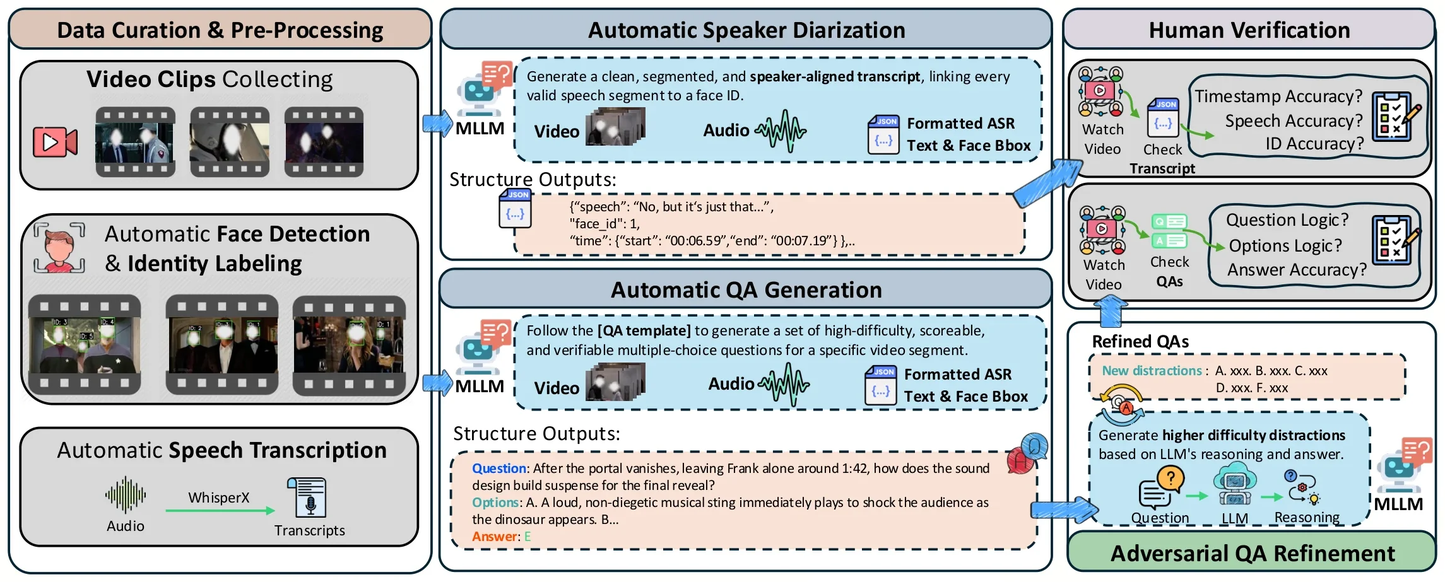
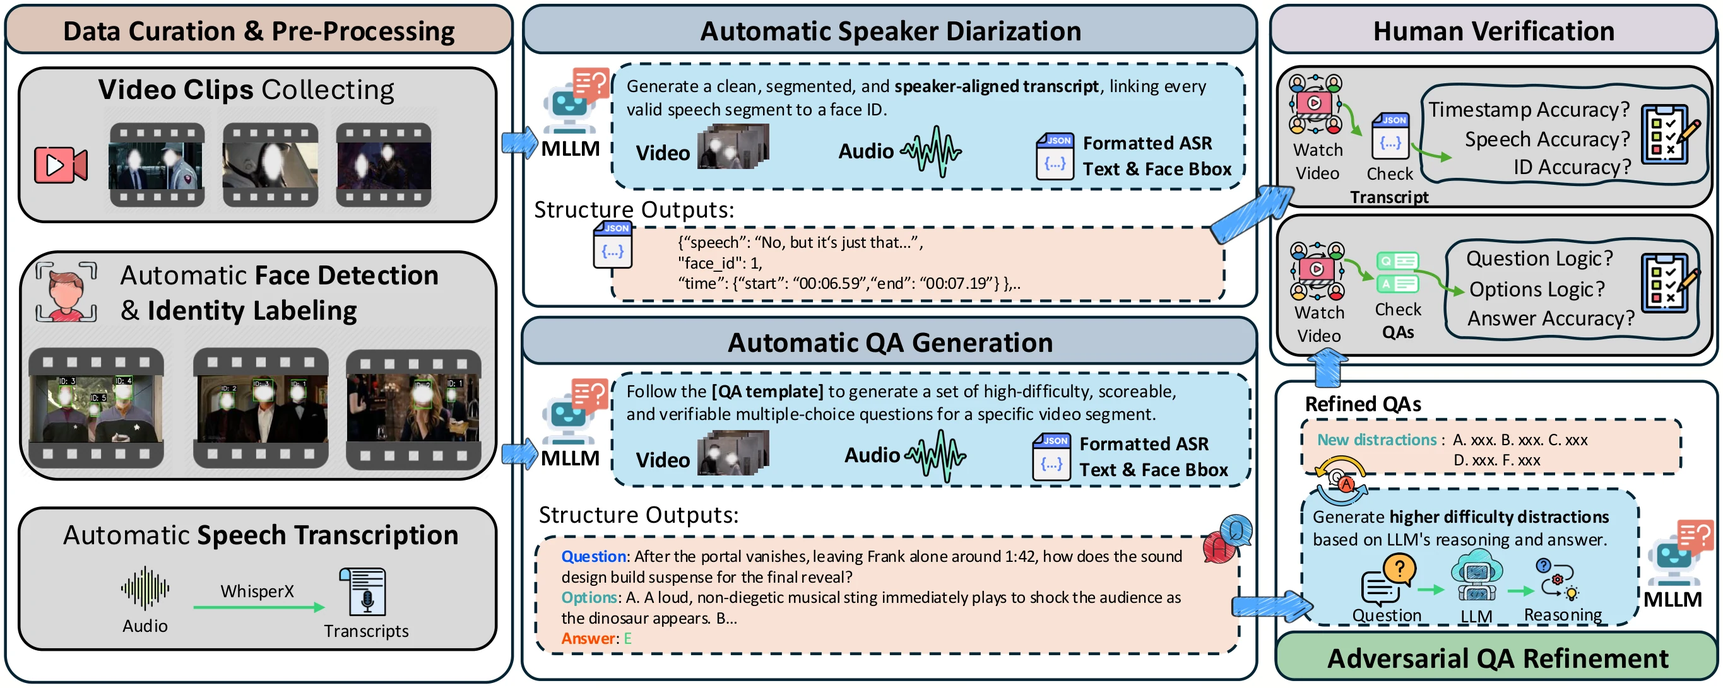
Link the arXiv paper and rework layout and figures
- Paper and PDF buttons point to arXiv:2611.15161; abstract follows the
  arXiv wording; BibTeX carries the arXiv id.
- Hero is centred, with the when/what/who/why chain as a four-cell band.
- Teaser and pipeline re-rendered at 3x; on phones they pan sideways
  instead of shrinking.
- Dataset statistics are HTML bars instead of four pie images.
- Sections are now leaderboard, findings, benchmark and citation.
- tools/render_figures.py regenerates the images from the paper PDFs.

Changed region(s): [[0.0, 0.0, 1.0, 1.0]]

diff --git a/index.html b/index.html
@@ -33,7 +33,6 @@
   --strip: #141C26;
   --hole: #FAFAFB;
   --figure: #FFFFFF;
-  --fig-ink: #3A4552; /* text on figure cards, which stay light in both themes */
   --f-display: "Big Shoulders Display", "Arial Narrow", "Helvetica Neue", sans-serif;
   --f-body: "IBM Plex Sans", system-ui, -apple-system, "Segoe UI", Roboto, sans-serif;
   --f-mono: "IBM Plex Mono", ui-monospace, SFMono-Regular, Menlo, Consolas, monospace;
@@ -91,27 +90,27 @@ p { margin: 0; }
 .nav-gh:hover { background: var(--surface); }
 
 /* hero */
-.hero { padding-block: 56px 40px; }
-.hero-grid { display: grid; gap: 36px; grid-template-columns: minmax(0, 1fr); align-items: end; }
-@media (min-width: 1040px) { .hero-grid { grid-template-columns: minmax(0, 1fr) 360px; gap: 48px; align-items: center; } }
-.chain { border: 1px solid var(--line); border-radius: 12px; background: var(--card); padding: 18px 20px; display: grid; gap: 2px; }
-.chain-title { font: 500 12px/1.4 var(--f-mono); letter-spacing: .08em; text-transform: uppercase; color: var(--muted); margin-bottom: 8px; }
-.chain-row { display: grid; grid-template-columns: 58px minmax(0, 1fr) auto; gap: 10px; align-items: baseline; padding: 7px 0; border-top: 1px dashed var(--line); font-size: 14.5px; }
-.chain-row .q { font: 800 22px/1 var(--f-display); color: var(--ground); }
-.chain-row.r .q { color: var(--reason); }
-.chain-row .m { font: 500 12px var(--f-mono); color: var(--muted); }
-.chain-track { font: 500 11px var(--f-mono); letter-spacing: .07em; text-transform: uppercase; padding-top: 10px; color: var(--ground); }
-.chain-track.r { color: var(--reason); }
-.venue { font: 500 13px/1.4 var(--f-mono); letter-spacing: .08em; text-transform: uppercase; color: var(--muted); display: flex; flex-wrap: wrap; gap: 6px 14px; }
+.hero { padding-block: 48px 40px; text-align: center; }
+.venue { font: 500 13px/1.4 var(--f-mono); letter-spacing: .08em; text-transform: uppercase; color: var(--muted); display: flex; flex-wrap: wrap; justify-content: center; gap: 6px 14px; }
 .venue b { color: var(--ink); font-weight: 500; }
-.wordmark { font: 800 clamp(72px, 13vw, 148px)/.86 var(--f-display); letter-spacing: -.005em; margin-top: 18px; }
+.wordmark { font: 800 clamp(64px, 11vw, 116px)/.88 var(--f-display); letter-spacing: -.005em; margin-top: 16px; }
 .wordmark span { color: var(--reason); }
-.subtitle { font: 500 clamp(20px, 2.6vw, 28px)/1.3 var(--f-body); margin-top: 18px; max-width: 30ch; letter-spacing: -.01em; }
-.authors { margin-top: 28px; display: flex; flex-wrap: wrap; gap: 4px 18px; font-size: 16px; font-weight: 500; }
+.subtitle { font: 500 clamp(20px, 2.5vw, 30px)/1.25 var(--f-body); margin: 18px auto 0; max-width: 42ch; letter-spacing: -.01em; }
+@media (min-width: 720px) { .subtitle span { display: inline-block; } }  /* break between the two halves of the title */
+.authors { margin: 28px auto 0; max-width: 900px; font-size: 16px; font-weight: 500; line-height: 1.9; text-wrap: balance; }
+.authors span, .affils span { display: inline-block; margin-inline: 9px; }
 .authors sup { font: 500 11px var(--f-mono); color: var(--muted); margin-left: 1px; }
-.affils { margin-top: 10px; display: flex; flex-wrap: wrap; gap: 2px 20px; font-size: 13.5px; color: var(--muted); }
+.affils { margin: 8px auto 0; max-width: 900px; font-size: 13.5px; color: var(--muted); text-wrap: balance; }
 .affils sup { font-family: var(--f-mono); margin-right: 3px; }
-.btns { margin-top: 28px; display: flex; flex-wrap: wrap; gap: 10px; }
+.btns { margin-top: 28px; display: flex; flex-wrap: wrap; justify-content: center; gap: 10px; }
+/* the evidence chain: three grounding questions feed one reasoning question */
+.chain { margin-top: 40px; display: grid; grid-template-columns: repeat(2, minmax(0, 1fr)); gap: 1px; background: var(--line); border: 1px solid var(--line); border-radius: 12px; overflow: hidden; text-align: left; }
+@media (min-width: 860px) { .chain { grid-template-columns: repeat(4, minmax(0, 1fr)); } }
+.chain-cell { background: var(--ground-soft); color: var(--ground); padding: 16px 18px; display: grid; gap: 4px; align-content: start; }
+.chain-cell.r { background: var(--reason-soft); color: var(--reason); }
+.chain-cell .t { font: 500 11.5px/1.4 var(--f-mono); letter-spacing: .07em; text-transform: uppercase; }
+.chain-cell .q { font: 800 36px/1 var(--f-display); }
+.chain-cell .d { font-size: 14.5px; line-height: 1.4; color: var(--ink); }
 .btn {
   display: inline-flex; align-items: center; gap: 8px; height: 40px; padding: 0 16px; border-radius: 8px;
   font: 500 15px/1 var(--f-body); text-decoration: none; color: var(--ink); background: var(--card);
@@ -120,8 +119,6 @@ p { margin: 0; }
 .btn:hover { border-color: var(--ink); }
 .btn--primary { background: var(--ink); color: var(--bg); border-color: var(--ink); }
 .btn--primary:hover { opacity: .9; }
-.btn--off { color: var(--muted); border-style: dashed; cursor: default; }
-.btn--off:hover { border-color: var(--line); }
 .btn svg { width: 17px; height: 17px; flex: none; }
 
 /* film strip band */
@@ -144,6 +141,9 @@ section + section { border-top: 1px solid var(--line); }
 
 figure { margin: 0; }
 .fig { background: var(--figure); border: 1px solid var(--line); border-radius: 10px; padding: clamp(8px, 1.6vw, 18px); }
+/* wide figures keep a readable size on phones and pan sideways instead of shrinking */
+.scroll-x { overflow-x: auto; }
+.scroll-x img { min-width: 700px; }
 figcaption { margin-top: 12px; font-size: 14px; color: var(--muted); max-width: 90ch; }
 figcaption b { color: var(--ink); font-weight: 600; }
 
@@ -221,12 +221,12 @@ th[aria-sort] .sort { color: var(--ground); }
 .tag--AV { background: var(--ground-soft); color: var(--ground); }
 .muted { color: var(--muted); }
 .lb-notes { margin-top: 14px; font-size: 13.5px; color: var(--muted); display: grid; gap: 4px; max-width: 110ch; }
-.lb-notes .cov { vertical-align: baseline; font-size: 13px; }
+.lb-notes .cov { vertical-align: baseline; font-size: 13px; width: auto; }
 .submit { margin-top: 18px; font-size: 14.5px; padding: 12px 16px; border-radius: 8px; background: var(--surface); max-width: 110ch; }
 
 /* findings */
 .findings { display: grid; gap: 18px; grid-template-columns: 1fr; margin-top: 32px; }
-@media (min-width: 900px) { .findings { grid-template-columns: 1fr 1fr; align-items: start; } }
+@media (min-width: 900px) { .findings { grid-template-columns: 1fr 1fr; } }
 .finding { background: var(--card); border: 1px solid var(--line); border-radius: 12px; padding: 22px; display: flex; flex-direction: column; gap: 14px; min-width: 0; }
 .finding p { color: var(--muted); font-size: 15px; }
 .finding p strong { color: var(--ink); font-weight: 600; }
@@ -265,10 +265,13 @@ th[aria-sort] .sort { color: var(--ground); }
 
 /* benchmark */
 .build { display: grid; gap: 24px; margin-top: 32px; grid-template-columns: minmax(0, 1fr); }
-.stats4 { display: grid; gap: 14px; grid-template-columns: repeat(2, minmax(0, 1fr)); margin-top: 16px; }
-@media (min-width: 900px) { .stats4 { grid-template-columns: repeat(4, minmax(0, 1fr)); } }
-.stats4 figure { background: var(--figure); border: 1px solid var(--line); border-radius: 10px; padding: 14px 14px 10px; }
-.stats4 figcaption { margin-top: 8px; text-align: center; color: var(--fig-ink); font-size: 13px; }
+.stats4 { display: grid; gap: 14px; grid-template-columns: minmax(0, 1fr); margin-top: 16px; }
+@media (min-width: 600px) { .stats4 { grid-template-columns: repeat(2, minmax(0, 1fr)); } }
+@media (min-width: 1040px) { .stats4 { grid-template-columns: repeat(4, minmax(0, 1fr)); } }
+.stat { background: var(--card); border: 1px solid var(--line); border-radius: 10px; padding: 16px 18px; display: grid; gap: 9px; align-content: start; }
+.stat h4 { margin: 0 0 4px; font: 600 15px/1.3 var(--f-body); }
+.stat h4 span { display: block; font-weight: 400; font-size: 12.5px; color: var(--muted); }
+.stat .meter { grid-template-columns: 74px minmax(0, 1fr) 46px; gap: 10px; font-size: 13px; }
 .cmp th, .cmp td { padding: 8px 10px; text-align: center; border-bottom: 1px solid var(--line); white-space: nowrap; }
 .cmp th { font-size: 12.5px; font-weight: 600; vertical-align: bottom; }
 .cmp .l { text-align: left; }
@@ -278,9 +281,6 @@ th[aria-sort] .sort { color: var(--ground); }
 .y { color: var(--up); font-weight: 600; }
 .x { color: var(--muted); }
 
-/* examples */
-.ex-panel { margin-top: 18px; }
-.ex-panel .fig { display: block; max-width: 860px; }
 .skip { position: absolute; left: 12px; top: -48px; z-index: 30; background: var(--ink); color: var(--bg); padding: 8px 12px; border-radius: 6px; }
 .skip:focus { top: 12px; }
 
@@ -305,7 +305,6 @@ footer p { max-width: 100ch; }
       <a href="#leaderboard">Leaderboard</a>
       <a href="#findings">Findings</a>
       <a href="#benchmark">Benchmark</a>
-      <a href="#examples">Examples</a>
       <a href="#citation">Citation</a>
     </div>
     <a class="nav-gh" href="https://github.com/bytedance/vidi/tree/main/VUE_PLOT" aria-label="Code on GitHub">
@@ -315,12 +314,11 @@ footer p { max-width: 100ch; }
 </nav>
 
 <header class="hero" id="top">
-  <div class="wrap hero-grid">
-  <div>
+  <div class="wrap">
     <div class="venue"><b>NeurIPS 2026</b><span>Track on Evaluations and Datasets</span></div>
     <h1>
       <span class="wordmark" style="display:block">Cine<span>MME</span></span>
-      <span class="subtitle" style="display:block">From Dialogue Grounding to Narrative Reasoning in Multimodal Video Understanding</span>
+      <span class="subtitle" style="display:block"><span>From Dialogue Grounding to Narrative Reasoning</span> <span>in Multimodal Video Understanding</span></span>
     </h1>
     <div class="authors">
       <span>Jin Liu<sup>1,2,4</sup></span>
@@ -342,11 +340,15 @@ footer p { max-width: 100ch; }
       <span><sup>*</sup>Corresponding author</span>
     </div>
     <div class="btns">
-      <span class="btn btn--off" title="The arXiv link will be added when the paper is public">
+      <a class="btn btn--primary" href="https://arxiv.org/abs/2611.15161">
         <svg viewBox="0 0 24 24" fill="none" stroke="currentColor" stroke-width="1.8" aria-hidden="true"><path d="M14 3H6a1 1 0 0 0-1 1v16a1 1 0 0 0 1 1h12a1 1 0 0 0 1-1V8z"/><path d="M14 3v5h5M8.5 13h7M8.5 17h5"/></svg>
-        Paper (coming soon)
-      </span>
-      <a class="btn btn--primary" href="https://github.com/bytedance/vidi/tree/main/VUE_PLOT">
+        Paper <span class="mono" style="font-size:13px;opacity:.8">arXiv:2611.15161</span>
+      </a>
+      <a class="btn" href="https://arxiv.org/pdf/2611.15161">
+        <svg viewBox="0 0 24 24" fill="none" stroke="currentColor" stroke-width="1.8" aria-hidden="true"><path d="M12 4v11m0 0-4-4m4 4 4-4M5 19h14"/></svg>
+        PDF
+      </a>
+      <a class="btn" href="https://github.com/bytedance/vidi/tree/main/VUE_PLOT">
         <svg viewBox="0 0 16 16" fill="currentColor" aria-hidden="true"><path d="M8 0C3.58 0 0 3.58 0 8c0 3.54 2.29 6.53 5.47 7.59.4.07.55-.17.55-.38 0-.19-.01-.82-.01-1.49-2.01.37-2.53-.49-2.69-.94-.09-.23-.48-.94-.82-1.13-.28-.15-.68-.52-.01-.53.63-.01 1.08.58 1.23.82.72 1.21 1.87.87 2.33.66.07-.52.28-.87.51-1.07-1.78-.2-3.64-.89-3.64-3.95 0-.87.31-1.59.82-2.15-.08-.2-.36-1.02.08-2.12 0 0 .67-.21 2.2.82.64-.18 1.32-.27 2-.27.68 0 1.36.09 2 .27 1.53-1.04 2.2-.82 2.2-.82.44 1.1.16 1.92.08 2.12.51.56.82 1.27.82 2.15 0 3.07-1.87 3.75-3.65 3.95.29.25.54.73.54 1.48 0 1.07-.01 1.93-.01 2.2 0 .21.15.46.55.38A8.01 8.01 0 0 0 16 8c0-4.42-3.58-8-8-8z"/></svg>
         Code
       </a>
@@ -359,16 +361,12 @@ footer p { max-width: 100ch; }
         Leaderboard
       </a>
     </div>
-  </div>
-  <aside class="chain" aria-label="What CineMME measures">
-    <div class="chain-title">The dialogue-to-plot evidence chain</div>
-    <div class="chain-track">Grounding track</div>
-    <div class="chain-row"><span class="q">When</span><span>is the line spoken?</span><span class="m">tIoU ↑</span></div>
-    <div class="chain-row"><span class="q">What</span><span>is said?</span><span class="m">WER ↓</span></div>
-    <div class="chain-row"><span class="q">Who</span><span>says it?</span><span class="m">vIoU ↑</span></div>
-    <div class="chain-track r">Reasoning track</div>
-    <div class="chain-row r"><span class="q">Why</span><span>does it matter for the plot?</span><span class="m">MCQ · OEQ</span></div>
-  </aside>
+    <div class="chain" role="list" aria-label="The dialogue-to-plot evidence chain CineMME measures">
+      <div class="chain-cell" role="listitem"><span class="t">Grounding · tIoU ↑</span><span class="q">When</span><span class="d">is the line spoken?</span></div>
+      <div class="chain-cell" role="listitem"><span class="t">Grounding · WER ↓</span><span class="q">What</span><span class="d">is said?</span></div>
+      <div class="chain-cell" role="listitem"><span class="t">Grounding · vIoU ↑</span><span class="q">Who</span><span class="d">says it?</span></div>
+      <div class="chain-cell r" role="listitem"><span class="t">Reasoning · MCQ · OEQ</span><span class="q">Why</span><span class="d">does it matter for the plot?</span></div>
+    </div>
   </div>
 </header>
 
@@ -378,7 +376,7 @@ footer p { max-width: 100ch; }
 <div class="teaser">
   <div class="wrap">
     <figure>
-      <a class="fig" style="display:block" href="static/images/teaser.webp" title="Open full size"><img src="static/images/teaser.webp" width="2395" height="1131" alt="CineMME example. Top: a grounding query asks the model to locate every spoken line with its timestamps and the speaker's face boxes. Bottom: a reasoning question about the same clip, with a step-by-step answer that cites time ranges."></a>
+      <a class="fig scroll-x" style="display:block" href="static/images/teaser.webp" title="Open full size"><img src="static/images/teaser.webp" width="2864" height="1340" alt="CineMME example. Top: a grounding query asks the model to locate every spoken line with its timestamps and the speaker's face boxes. Bottom: a reasoning question about the same clip, with a step-by-step answer that cites time ranges."></a>
       <figcaption><b>Two linked tracks on the same clips.</b> CineMME-Grounding (top) asks when a line is spoken, what is said, and which face says it. CineMME-Reasoning (bottom) asks questions that require using this temporally grounded evidence. Faces are blurred in all figures. Click the figure for full size.</figcaption>
     </figure>
   </div>
@@ -389,9 +387,9 @@ footer p { max-width: 100ch; }
     <div class="overview">
       <div class="abstract read">
         <h2 class="eyebrow">Abstract</h2>
-        <p style="margin-top:10px">Narrative video understanding requires more than recognizing visible events: models must acquire dialogue evidence, bind it to speakers, and use it to infer plot meaning. Existing video benchmarks evaluate pieces of this problem, including video question answering, audio-visual reasoning, and temporal grounding, but rarely test whether these abilities form a coherent dialogue-to-plot evidence chain within the same clips.</p>
+        <p style="margin-top:10px">Narrative video understanding requires more than recognizing visible events: models must extract evidence from dialogue, bind it to speakers, and use it to infer narrative meaning. Existing video benchmarks evaluate aspects of this problem, including video question answering, audio-visual reasoning, and temporal grounding, but rarely test whether these abilities form a coherent dialogue-to-plot evidence chain within the same clips.</p>
         <p>We introduce CineMME, a human-verified benchmark designed to diagnose dialogue-grounded plot understanding, supported by approximately 1,600 expert person-hours of annotation. CineMME contains 975 curated short narrative video clips and two linked tracks: CineMME-Grounding, with 13,554 timestamped speech segments and 33,083 speaker face boxes for temporal dialogue localization, transcription, and active-speaker grounding; and CineMME-Reasoning, with 1,600 multiple-choice and 316 open-ended questions spanning perception, audio, narrative, social, and scene-presentation understanding.</p>
-        <p>Our main evaluation compares 20 MLLMs on reasoning and 9 omni-modal models on grounding. The results reveal a pronounced who-what-when decoupling: Gemini-3 Pro localizes dialogue in time (68.34% tIoU) and partially transcribes it (WER 28.99%), yet reaches only 7.74% vIoU for active-speaker grounding while achieving 67.66% MCQ accuracy over extractable answers. Modality ablations further show that vision is not uniformly beneficial: it improves perception-heavy questions but can hurt dialogue-centric reasoning. CineMME provides a compact diagnostic testbed for evaluating how multimodal video models connect dialogue, speakers, visual evidence, and narrative meaning.</p>
+        <p>Our main evaluation compares 20 MLLMs on reasoning and 9 omni-modal models on grounding. The results reveal a pronounced who-what-when decoupling: Gemini-3 Pro localizes dialogue in time (68.34% tIoU) and transcribes it with a WER of 28.99%, yet achieves only 7.74% vIoU for active-speaker grounding while achieving 67.66% MCQ accuracy on questions with extractable answers. Modality ablations further show that vision is not uniformly beneficial: it improves performance on perception-heavy questions but can hurt dialogue-centric reasoning. CineMME provides a compact diagnostic testbed for evaluating how multimodal video models connect dialogue, speakers, visual evidence, and narrative meaning.</p>
       </div>
       <aside class="tracks" aria-label="Dataset at a glance">
         <div class="total"><span class="big tnum">975</span><span>short narrative movie clips, human-verified</span></div>
@@ -522,19 +520,43 @@ footer p { max-width: 100ch; }
     <h2 class="h2">Benchmark</h2>
     <div class="build">
       <figure>
-        <a class="fig" style="display:block" href="static/images/pipeline.webp" title="Open full size"><img src="static/images/pipeline.webp" width="2290" height="923" loading="lazy" alt="Annotation pipeline: clip collection, face detection and identity labeling, and WhisperX transcription feed an MLLM that drafts speaker-aligned transcripts and multiple-choice questions; an adversarial step rewrites distractors; annotators then check timestamps, speech, speaker IDs, question logic, options, and answers."></a>
+        <a class="fig scroll-x" style="display:block" href="static/images/pipeline.webp" title="Open full size"><img src="static/images/pipeline.webp" width="2730" height="1091" loading="lazy" alt="Annotation pipeline: clip collection, face detection and identity labeling, and WhisperX transcription feed an MLLM that drafts speaker-aligned transcripts and multiple-choice questions; an adversarial step rewrites distractors; annotators then check timestamps, speech, speaker IDs, question logic, options, and answers."></a>
         <figcaption><b>Annotation pipeline.</b> WhisperX and InsightFace propose speech segments and face tracks. MLLMs draft speaker attribution, questions, and answer options, and an adversarial pass rewrites distractors that a model can shortcut. Expert annotators decide every final label in a double-blind check.</figcaption>
       </figure>
 
       <div>
         <h3 class="h3">Dataset statistics</h3>
         <div class="stats4">
-          <figure><img src="static/images/pie_segment.webp" width="877" height="887" loading="lazy" alt="Pie chart of speech segment durations"><figcaption>(a) Segment duration</figcaption></figure>
-          <figure><img src="static/images/pie_bbox.webp" width="889" height="885" loading="lazy" alt="Pie chart of speaker face box sizes"><figcaption>(b) Face box size</figcaption></figure>
-          <figure><img src="static/images/pie_tasktype.webp" width="887" height="888" loading="lazy" alt="Pie chart of question categories: Social 23.6%, Scene 21.9%, Audio 19.6%, Perception 19.1%, Narrative 15.8%"><figcaption>(c) Question category</figcaption></figure>
-          <figure><img src="static/images/pie_qlen.webp" width="900" height="914" loading="lazy" alt="Pie chart of question length in words"><figcaption>(d) Question length</figcaption></figure>
+          <div class="stat" role="img" aria-label="Segment duration, share of 13,554 speech segments: &lt;1 s 16.1 percent, 1–3 s 60.4 percent, 3–5 s 15.3 percent, ≥5 s 8.2 percent">
+            <h4>Segment duration<span>13,554 speech segments</span></h4>
+            <div class="meter"><span class="k">&lt;1 s</span><span class="bar" style="--v:16.1;--c:var(--ground)"></span><span class="v">16.1%</span></div>
+            <div class="meter"><span class="k">1–3 s</span><span class="bar" style="--v:60.4;--c:var(--ground)"></span><span class="v">60.4%</span></div>
+            <div class="meter"><span class="k">3–5 s</span><span class="bar" style="--v:15.3;--c:var(--ground)"></span><span class="v">15.3%</span></div>
+            <div class="meter"><span class="k">≥5 s</span><span class="bar" style="--v:8.2;--c:var(--ground)"></span><span class="v">8.2%</span></div>
+          </div>
+          <div class="stat" role="img" aria-label="Speaker face box area, share of 33,083 boxes, as a share of the frame: &lt;1% 11.0 percent, 1–5% 40.1 percent, 5–15% 34.9 percent, ≥15% 14.0 percent">
+            <h4>Speaker face box area<span>33,083 boxes, as a share of the frame</span></h4>
+            <div class="meter"><span class="k">&lt;1%</span><span class="bar" style="--v:11.0;--c:var(--ground)"></span><span class="v">11.0%</span></div>
+            <div class="meter"><span class="k">1–5%</span><span class="bar" style="--v:40.1;--c:var(--ground)"></span><span class="v">40.1%</span></div>
+            <div class="meter"><span class="k">5–15%</span><span class="bar" style="--v:34.9;--c:var(--ground)"></span><span class="v">34.9%</span></div>
+            <div class="meter"><span class="k">≥15%</span><span class="bar" style="--v:14.0;--c:var(--ground)"></span><span class="v">14.0%</span></div>
+          </div>
+          <div class="stat" role="img" aria-label="Question category, share of 1,916 questions: Social 23.6 percent, Scene 21.9 percent, Audio 19.6 percent, Perception 19.1 percent, Narrative 15.8 percent">
+            <h4>Question category<span>1,916 questions</span></h4>
+            <div class="meter"><span class="k">Social</span><span class="bar" style="--v:23.6;--c:var(--reason)"></span><span class="v">23.6%</span></div>
+            <div class="meter"><span class="k">Scene</span><span class="bar" style="--v:21.9;--c:var(--reason)"></span><span class="v">21.9%</span></div>
+            <div class="meter"><span class="k">Audio</span><span class="bar" style="--v:19.6;--c:var(--reason)"></span><span class="v">19.6%</span></div>
+            <div class="meter"><span class="k">Perception</span><span class="bar" style="--v:19.1;--c:var(--reason)"></span><span class="v">19.1%</span></div>
+            <div class="meter"><span class="k">Narrative</span><span class="bar" style="--v:15.8;--c:var(--reason)"></span><span class="v">15.8%</span></div>
+          </div>
+          <div class="stat" role="img" aria-label="Question length, share of 1,916 questions, in words: ≤20 23.9 percent, 21–35 68.8 percent, &gt;35 7.3 percent">
+            <h4>Question length<span>1,916 questions, in words</span></h4>
+            <div class="meter"><span class="k">≤20</span><span class="bar" style="--v:23.9;--c:var(--reason)"></span><span class="v">23.9%</span></div>
+            <div class="meter"><span class="k">21–35</span><span class="bar" style="--v:68.8;--c:var(--reason)"></span><span class="v">68.8%</span></div>
+            <div class="meter"><span class="k">&gt;35</span><span class="bar" style="--v:7.3;--c:var(--reason)"></span><span class="v">7.3%</span></div>
+          </div>
         </div>
-        <p class="lede" style="font-size:15px">Short speech segments demand precise timing, and tiny, small, and medium face boxes make speaker grounding hard in multi-person scenes. Questions are spread across five categories, and 76.1% of them exceed 20 words.</p>
+        <p class="lede" style="font-size:15px">Short speech segments demand precise timing, and 86.0% of speaker face boxes cover less than 15% of the frame, which makes speaker grounding hard in multi-person scenes. Questions are spread across five categories, and 76.1% of them exceed 20 words.</p>
       </div>
 
       <div>
@@ -567,26 +589,6 @@ footer p { max-width: 100ch; }
   </div>
 </section>
 
-<section id="examples">
-  <div class="wrap">
-    <div class="eyebrow">One case per reasoning category</div>
-    <h2 class="h2">Examples</h2>
-    <p class="lede read">Each case shows sampled frames, the question and its options with the correct one in green, and model reasoning traces. The clips themselves are not redistributed.</p>
-    <div class="tabs" role="tablist" aria-label="Example category" style="margin-top:20px">
-      <button class="tab" role="tab" id="t-perception" aria-controls="ex-perception" aria-selected="true">Perception</button>
-      <button class="tab" role="tab" id="t-audio" aria-controls="ex-audio" aria-selected="false">Audio</button>
-      <button class="tab" role="tab" id="t-narrative" aria-controls="ex-narrative" aria-selected="false">Narrative</button>
-      <button class="tab" role="tab" id="t-social" aria-controls="ex-social" aria-selected="false">Social</button>
-      <button class="tab" role="tab" id="t-scene" aria-controls="ex-scene" aria-selected="false">Scene Presentation</button>
-    </div>
-    <div class="ex-panel" id="ex-perception" role="tabpanel" aria-labelledby="t-perception"><a class="fig" href="static/images/qa_perception.webp" title="Open full size"><img src="static/images/qa_perception.webp" width="1542" height="1500" loading="lazy" alt="Perception example: frames, a multiple-choice question, and model reasoning traces"></a></div>
-    <div class="ex-panel" id="ex-audio" role="tabpanel" aria-labelledby="t-audio" hidden><a class="fig" href="static/images/qa_audio.webp" title="Open full size"><img src="static/images/qa_audio.webp" width="1543" height="2308" loading="lazy" alt="Audio example: frames, a multiple-choice question about sound, and model reasoning traces"></a></div>
-    <div class="ex-panel" id="ex-narrative" role="tabpanel" aria-labelledby="t-narrative" hidden><a class="fig" href="static/images/qa_narrative.webp" title="Open full size"><img src="static/images/qa_narrative.webp" width="1543" height="1654" loading="lazy" alt="Narrative example: frames, a multiple-choice question about the plot, and model reasoning traces"></a></div>
-    <div class="ex-panel" id="ex-social" role="tabpanel" aria-labelledby="t-social" hidden><a class="fig" href="static/images/qa_social.webp" title="Open full size"><img src="static/images/qa_social.webp" width="1542" height="1964" loading="lazy" alt="Social example: a question about the professional relationship between two characters in a car chase, with six options and two model reasoning traces"></a></div>
-    <div class="ex-panel" id="ex-scene" role="tabpanel" aria-labelledby="t-scene" hidden><a class="fig" href="static/images/qa_scene_presentation.webp" title="Open full size"><img src="static/images/qa_scene_presentation.webp" width="1542" height="1992" loading="lazy" alt="Scene Presentation example: frames, a multiple-choice question about editing and camera work, and model reasoning traces"></a></div>
-  </div>
-</section>
-
 <section id="citation">
   <div class="wrap">
     <h2 class="h2">Citation</h2>
@@ -595,7 +597,8 @@ footer p { max-width: 100ch; }
   title     = {{CineMME}: From Dialogue Grounding to Narrative Reasoning in Multimodal Video Understanding},
   author    = {Liu, Jin and Du, Dawei and Liu, Yexiang and Zhu, Sijie and Chen, Fan and Duan, Junxian and Huang, Huaibo and He, Ran and Wen, Longyin and Chen, Zhenfang},
   booktitle = {Advances in Neural Information Processing Systems (NeurIPS), Track on Evaluations and Datasets},
-  year      = {2026}
+  year      = {2026},
+  note      = {arXiv:2611.15161}
 }</pre>
       <button class="copy" type="button" id="copy-bib" aria-live="polite">Copy</button>
     </div>
@@ -792,12 +795,6 @@ footer p { max-width: 100ch; }
     state.track = b.dataset.track; render();
     try { history.replaceState(null, '', '#' + state.track); } catch (_) {}
   });
-  const exTabs = document.querySelector('#examples [role="tablist"]');
-  tablist(exTabs, b => exTabs.querySelectorAll('[role="tab"]').forEach(x => {
-    const on = x === b; x.setAttribute('aria-selected', on); x.tabIndex = on ? 0 : -1;
-    document.getElementById(x.getAttribute('aria-controls')).hidden = !on;
-  }));
-  exTabs.querySelectorAll('[role="tab"]').forEach((x, i) => x.tabIndex = i ? -1 : 0);
 
   // #reasoning / #grounding open that leaderboard tab
   function fromHash() {

diff --git a/tools/render_figures.py b/tools/render_figures.py
@@ -1,0 +1,44 @@
+"""Render the page figures from the paper's figure PDFs.
+
+    pip install pymupdf pillow
+    python tools/render_figures.py /path/to/arxiv_paper/figures
+
+Writes static/images/{teaser,pipeline}.webp.
+"""
+import io
+import sys
+from pathlib import Path
+
+import pymupdf
+from PIL import Image, ImageChops
+
+SCALE = 3  # the frames embedded in the PDFs are ~3 px/pt; more adds nothing
+OUT = Path(__file__).resolve().parent.parent / "static" / "images"
+FIGURES = {"teaser": "cinemme_teaser.pdf", "pipeline": "cinemme_pipeline.pdf"}
+
+
+def render(page):
+    pix = page.get_pixmap(matrix=pymupdf.Matrix(SCALE, SCALE), alpha=False)
+    return Image.open(io.BytesIO(pix.tobytes("png"))).convert("RGB")
+
+
+def trim(im, pad=6):
+    # threshold: the slide background is a near-white image, not pure white
+    diff = ImageChops.difference(im, Image.new("RGB", im.size, "white")).convert("L")
+    box = diff.point(lambda v: 255 if v > 16 else 0).getbbox()
+    box = (max(box[0] - pad, 0), max(box[1] - pad, 0), min(box[2] + pad, im.width), min(box[3] + pad, im.height))
+    return im.crop(box)
+
+
+def main():
+    src = Path(sys.argv[1])
+    OUT.mkdir(parents=True, exist_ok=True)
+    for name, pdf in FIGURES.items():
+        im = trim(render(pymupdf.open(src / pdf)[0]))
+        path = OUT / f"{name}.webp"
+        im.save(path, "WEBP", quality=88, method=6)
+        print(f"{path.name}: {im.width}x{im.height}, {path.stat().st_size // 1024} KB")
+
+
+if __name__ == "__main__":
+    main()

diff --git a/README.md b/README.md
@@ -23,4 +23,9 @@ Ranks, best/second highlighting and the coverage marks (†, ‡) are computed i
 
 ## Figures
 
-`static/images/*.webp` are rendered from the paper PDFs at 2x width and cropped to content. Faces are blurred in the source figures. Do not add video files to this repository.
+```bash
+pip install pymupdf pillow
+python tools/render_figures.py /path/to/arxiv_paper/figures
+```
+
+This renders `teaser.webp` and `pipeline.webp` at 3x, cropped to content. If a size changes, update the `width`/`height` in `index.html`. The dataset statistics are HTML bars in `index.html`, not images. Faces are blurred in the source figures. Do not add video files to this repository.
